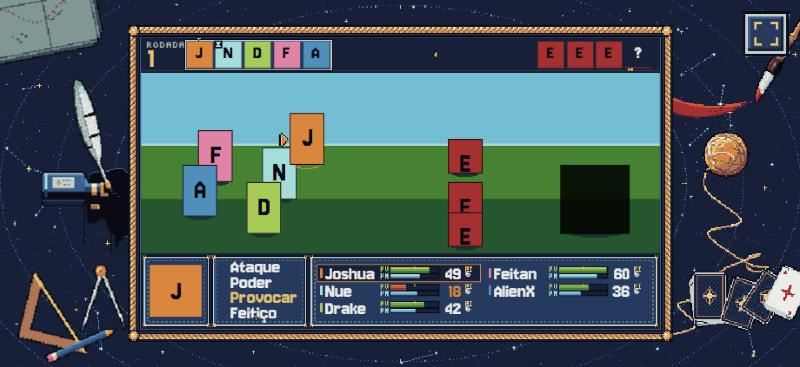
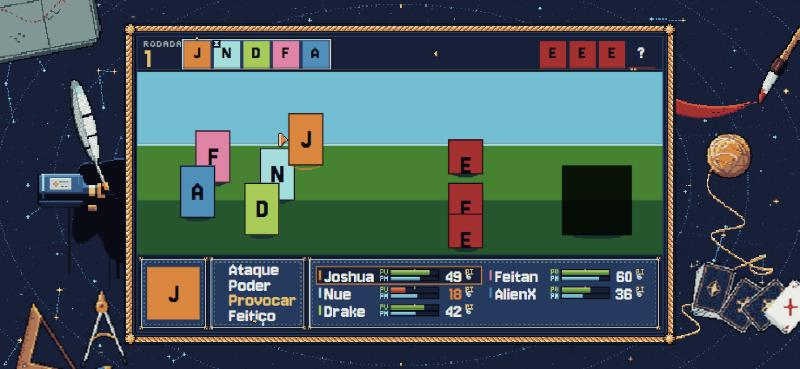
palco: a escala conta a moldura (sempre inteira); no celular em tela cheia o palco desce um degrau

diff --git a/src/palco/main.js b/src/palco/main.js
@@ -70,8 +70,13 @@ function ajustarEscala() {
   const larguraReal = window.innerWidth * dpr;
   const alturaReal = window.innerHeight * dpr;
 
-  let escalaReal = Math.floor(Math.min(larguraReal / LARGURA, alturaReal / ALTURA));
-  // Tela menor que 480×270 pixels reais (celular pequeno): reduz fracionado só para caber.
+  // A escala conta o palco COM a moldura (12 px de cada lado): a moldura sempre aparece
+  // inteira. Se ela não couber na maior escala (ex.: celular em tela cheia, onde o palco em 4×
+  // ocupa a altura toda), o palco desce um degrau (decisão do Cadu, 27/11).
+  const MOLDURA = 12;
+  let escalaReal = Math.floor(Math.min(larguraReal / (LARGURA + 2 * MOLDURA), alturaReal / (ALTURA + 2 * MOLDURA)));
+  // Tela pequena demais até para 1× com moldura: tenta sem moldura; menor que isso, fracionado.
+  if (escalaReal < 1) escalaReal = Math.floor(Math.min(larguraReal / LARGURA, alturaReal / ALTURA));
   if (escalaReal < 1) escalaReal = Math.min(larguraReal / LARGURA, alturaReal / ALTURA);
 
   const escalaCss = escalaReal / dpr;

diff --git a/docs/DECISOES.md b/docs/DECISOES.md
@@ -327,3 +327,9 @@ Cada decisão com o motivo, em linguagem simples. Atualizado a cada marco.
 - **Esquadro:** chanfro claro na borda inclinada, o vão do meio em baixo-relevo (filete escuro + filete claro), régua com marcas a cada 2 px (de 10 em 10, mais compridas), um furo de pendurar com rebite e uma estrelinha gravada.
 - **Compasso:** arco de ajuste entre as pernas, com o parafuso; cabeça com dobradiça e parafuso de fenda; pináculo em cima para segurar.
 - **Baralho:** o conjunto inteiro inclinado 16° na mesa (`INCLINACAO_BARALHO`). A estrela da carta virada é desenhada sempre "em pé", qualquer que seja o ângulo da carta.
+
+### A escala passa a contar a moldura (27/11, decisão do Cadu)
+- No celular em tela cheia (2340×1080), o palco em 4× ocupa exatamente os 1080 pixels de altura: a moldura de cima e de baixo ficava fora da tela e os objetos das laterais apareciam cortados (print do Cadu).
+- Opções apresentadas: palco um degrau menor com a moldura inteira; palco grande com moldura adaptada (só colunas laterais); ou o jogador escolher. **O Cadu escolheu o palco um degrau menor.**
+- Agora a escala é a maior escala inteira em que **o palco com a moldura** (504×294) cabe. No celular, 4× → 3×: moldura inteira e mesa larga dos dois lados. Num monitor 1080p em tela cheia (F11), também 4× → 3×; numa janela comum do navegador, nada muda (já era 3×).
+- Custo conhecido: o texto fica ~25% menor nesses casos.
